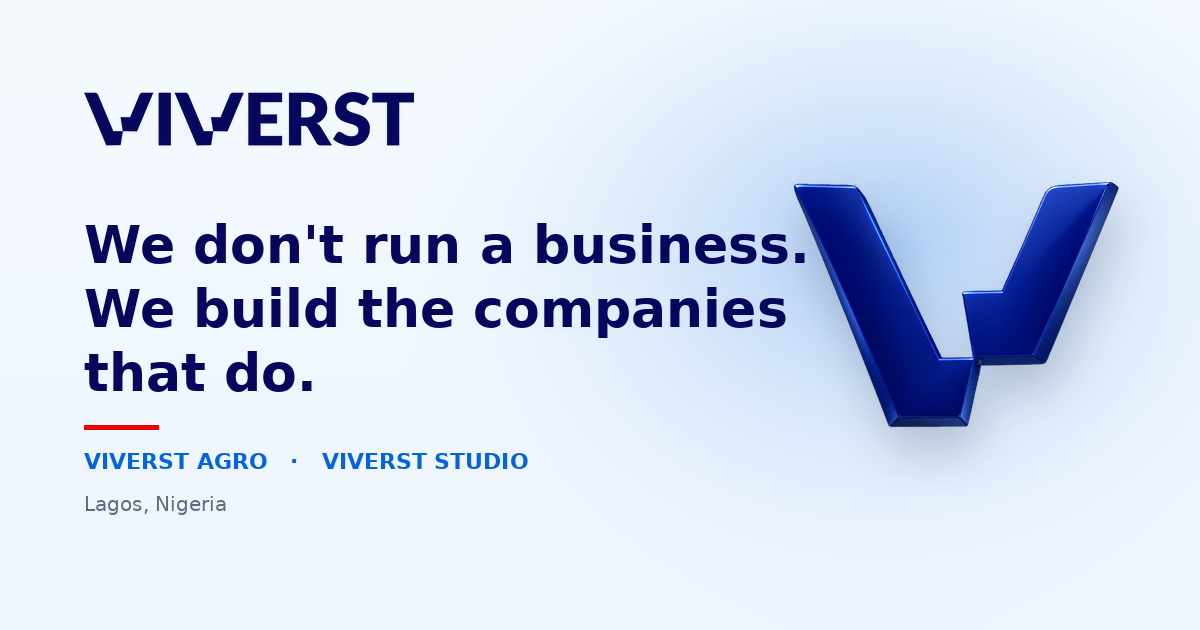
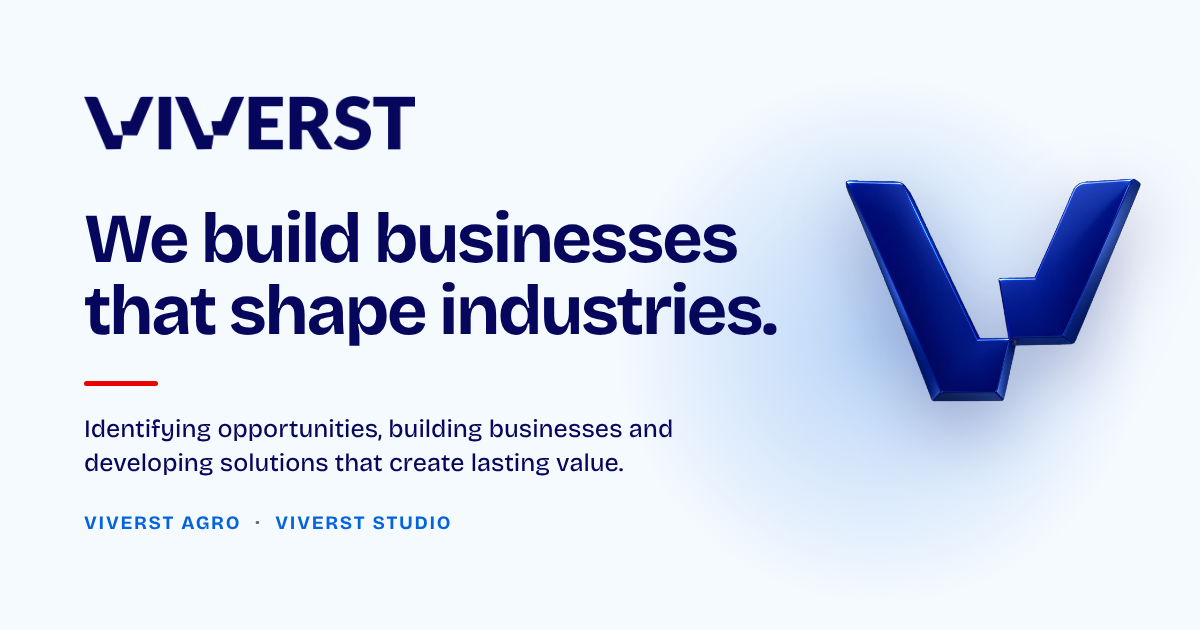
Main: share image with the current headline

diff --git a/apps/main/index.html b/apps/main/index.html
@@ -23,7 +23,7 @@
     <meta property="og:site_name" content="Viverst Global Limited" />
     <meta property="og:title" content="Viverst Global Limited | Diversified Corporate Group" />
     <meta property="og:description" content="The parent company behind Viverst Agro and Viverst Studio." />
-    <meta property="og:image" content="https://www.viverst.com/og-image.png" />
+    <meta property="og:image" content="https://www.viverst.com/og-image.png?v=2" />
     <meta property="og:image:width" content="1200" />
     <meta property="og:image:height" content="630" />
     <meta property="og:url" content="https://www.viverst.com/" />
@@ -32,10 +32,10 @@
     <meta name="twitter:card" content="summary_large_image" />
     <meta name="twitter:title" content="Viverst Global Limited | Diversified Corporate Group" />
     <meta name="twitter:description" content="The parent company behind Viverst Agro and Viverst Studio." />
-    <meta name="twitter:image" content="https://www.viverst.com/og-image.png" />
+    <meta name="twitter:image" content="https://www.viverst.com/og-image.png?v=2" />
 
     <meta name="theme-color" content="#f5faff" />
-    <meta property="og:image:alt" content="Viverst Global Limited — we don't run a business, we build the companies that do." />
+    <meta property="og:image:alt" content="Viverst Global Limited: we build businesses that shape industries." />
     <meta name="format-detection" content="telephone=no" />
 
     <link rel="icon" href="/favicon.ico" sizes="32x32" />
